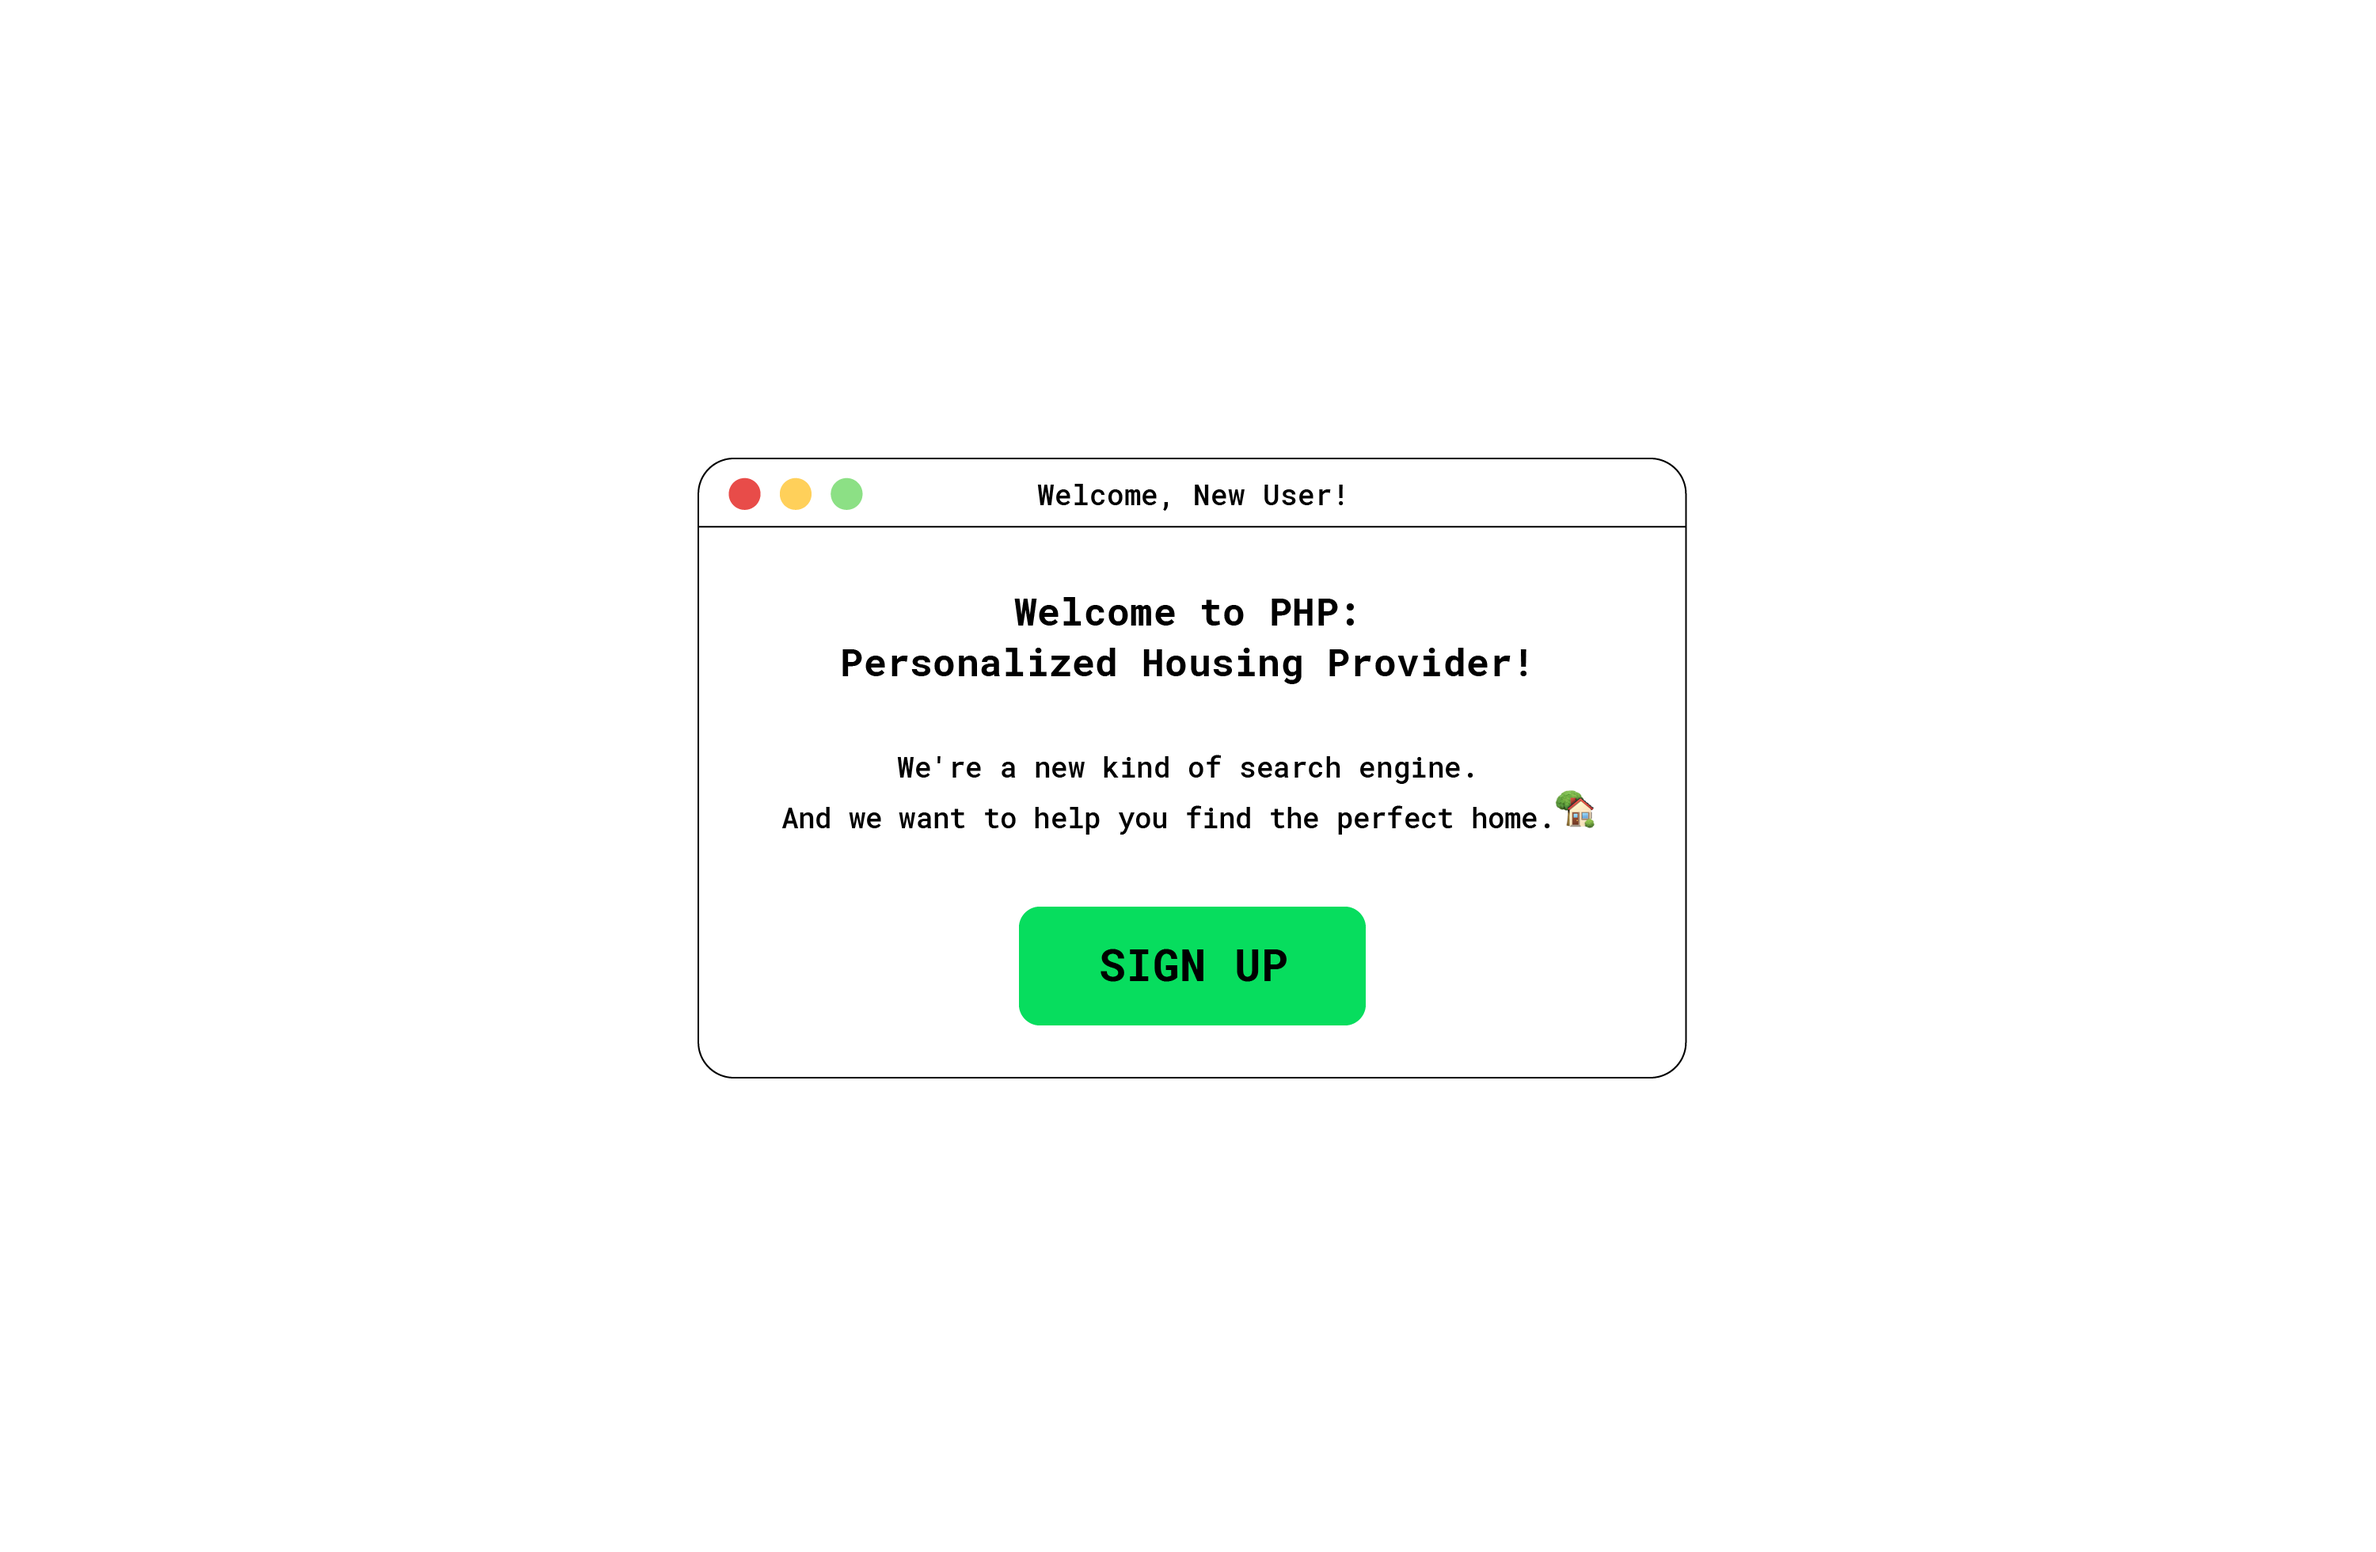
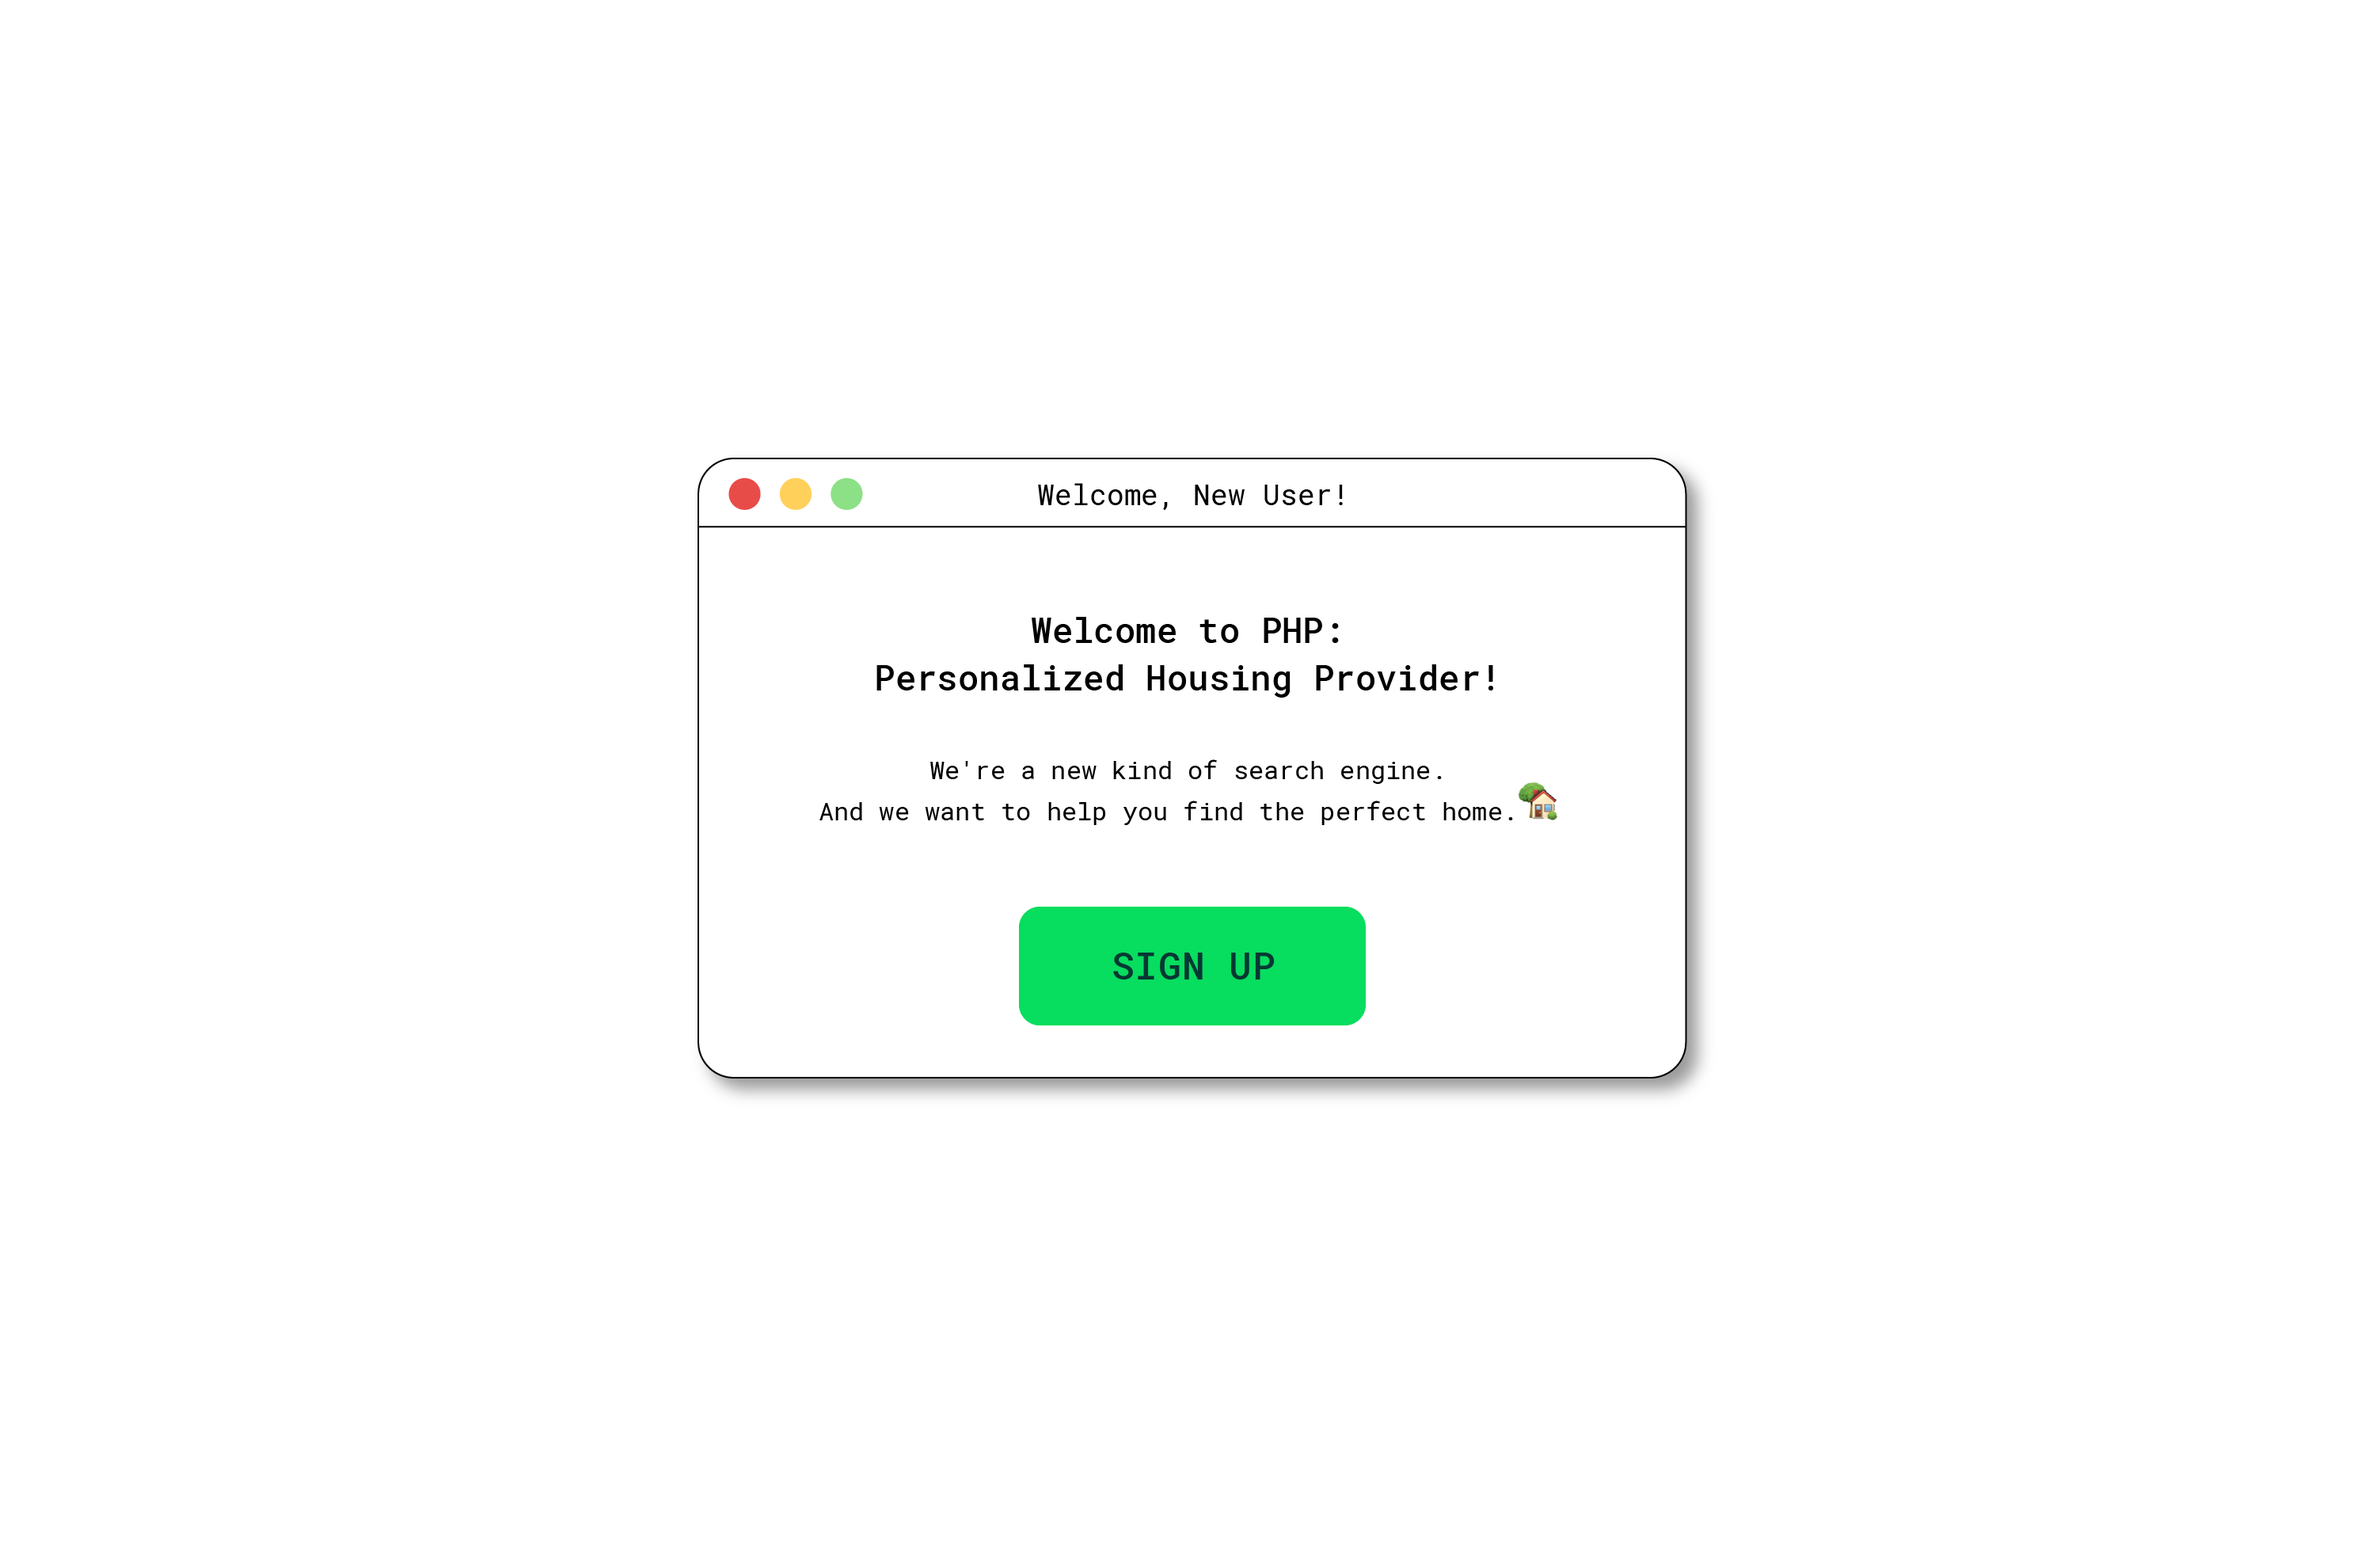
added button

Changed region(s): [[0.3409, 0.3735, 0.6818, 0.5291], [0.3099, 0.3112, 0.7438, 0.7158], [0.4648, 0.5913, 0.5578, 0.6536]]

diff --git a/public/assets/js/Profile.js b/public/assets/js/Profile.js
@@ -13,7 +13,7 @@ class Profile {
 
     text(
       squish(`Tell us some data about yourself so that we can
-      give you the best possible search experience.`),
+      give you the best possible search experience. Turn the knobs to select:`),
       width/2,
       height/4 - 30
     );
@@ -22,10 +22,12 @@ class Profile {
     image(you, width/2-100,height/3,200,200);
 
 
-    let yHeight = height / 2 + 60;
-    textSize(20);
-    text("TURN KNOBS AND THEN PRESS ENTER TO FIND A HOME", width/2, height-100);
 
+    push();
+    imageMode(CENTER)
+    tint(255, 255);  // Display at FULL opacity
+    image(button_search, width/2,height-100,328,75)
+    pop();
     select("#race-label").html(placeholder(raceLabels[selections.race]));
     select("#inc-label").html(placeholder(incomeLabels[selections.income]));
     select("#edu-label").html(placeholder(educationLabels[selections.education]));

diff --git a/public/assets/js/Intro.js b/public/assets/js/Intro.js
@@ -4,7 +4,7 @@ class Intro {
     background(browser,1);
     image(mapImage,0,0,width, height);
     fill(255);
-    rect(width/2, height/2, 0.7 * width, 250);
+    // rect(width/2, height/2, 0.7 * width, 250);
 
     fill(0);
     textSize(20);
@@ -13,9 +13,9 @@ class Intro {
     // textSize(16);
     // text("We're a new kind of search engine.", width/2, height/2 - 20);
     // text("And we want to help you find the perfect home.", width/2, height/2 + 10);
-
-    textSize(28);
-    text("PRESS ENTER TO START", width/2, height/2+80);
+    image(welcome, 0,0, width,height)
+    // textSize(28);
+    // text("PRESS ENTER TO START", width/2, height/2+80);
   }
 
   keyPressed() {

diff --git a/public/sketch.js b/public/sketch.js
@@ -41,6 +41,8 @@ function preload(){
 
   mapImage = loadImage('assets/images/map.png');
   browser = loadImage('assets/images/browser.png')
+  welcome = loadImage('assets/images/welcome.png');
+  button_search = loadImage('assets/images/button_search.png')
   blackf = loadImage('assets/images/black-f.png');
   whitef = loadImage('assets/images/white-f.png');
   hispf = loadImage('assets/images/hispanic-f.png');
